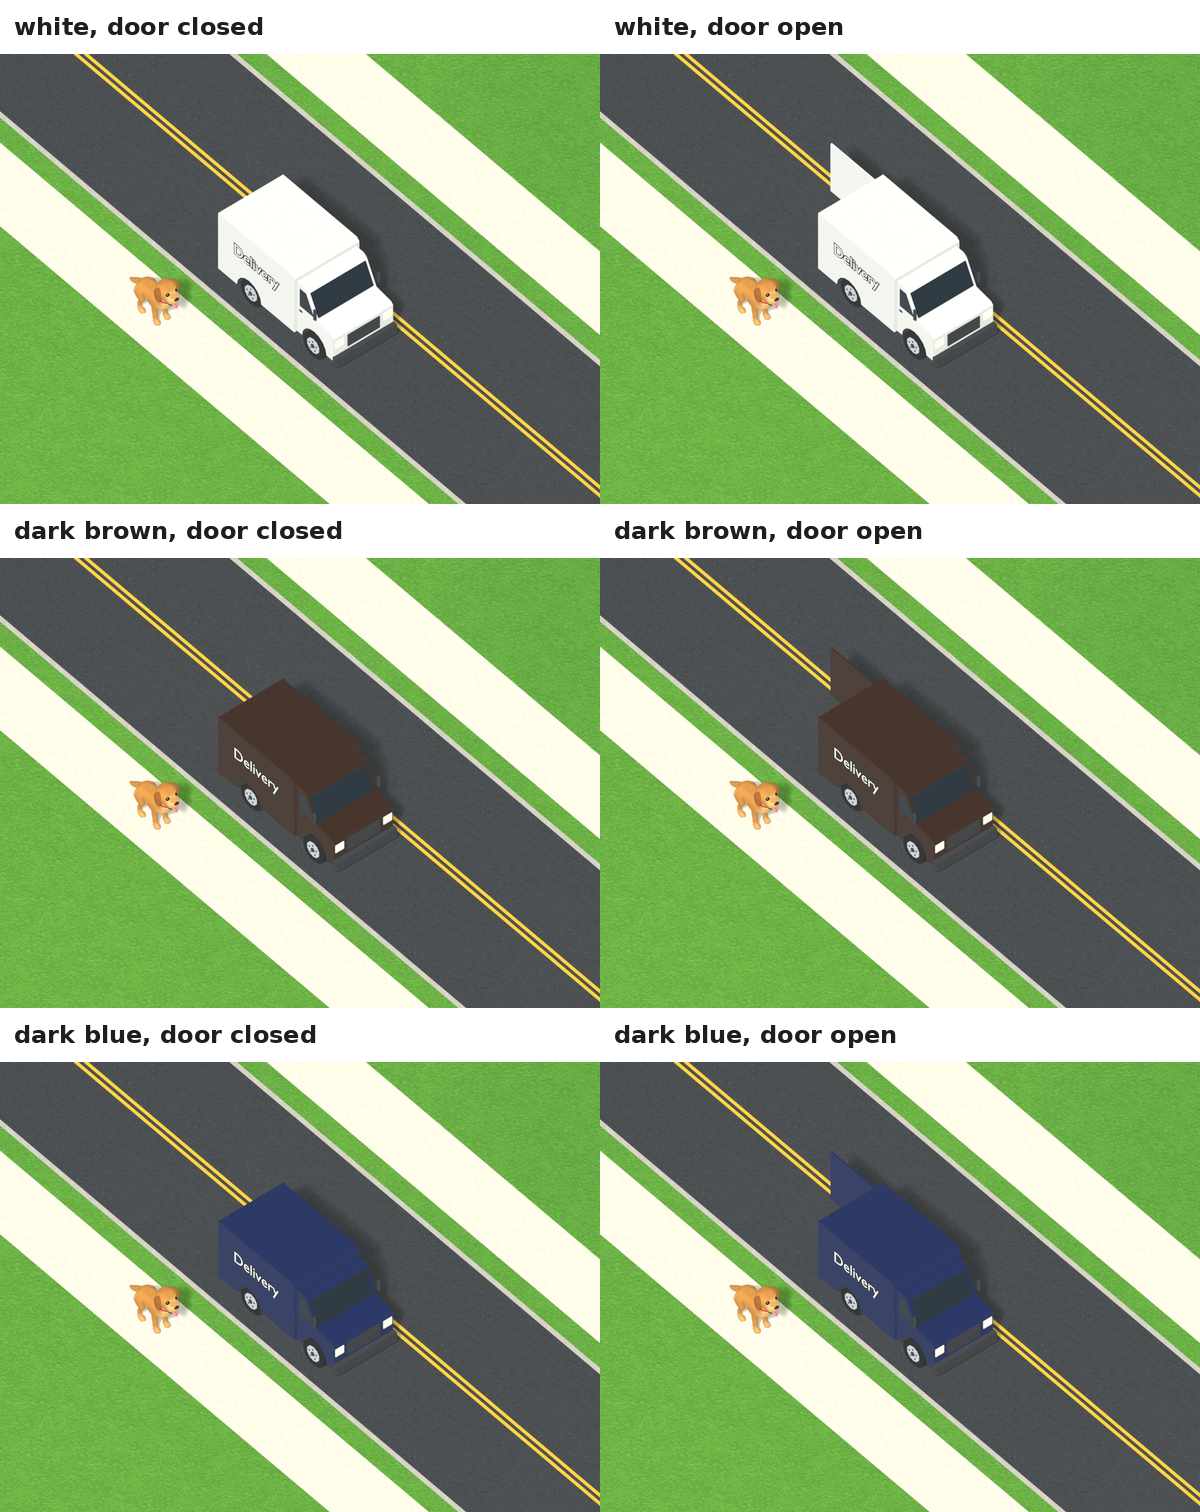
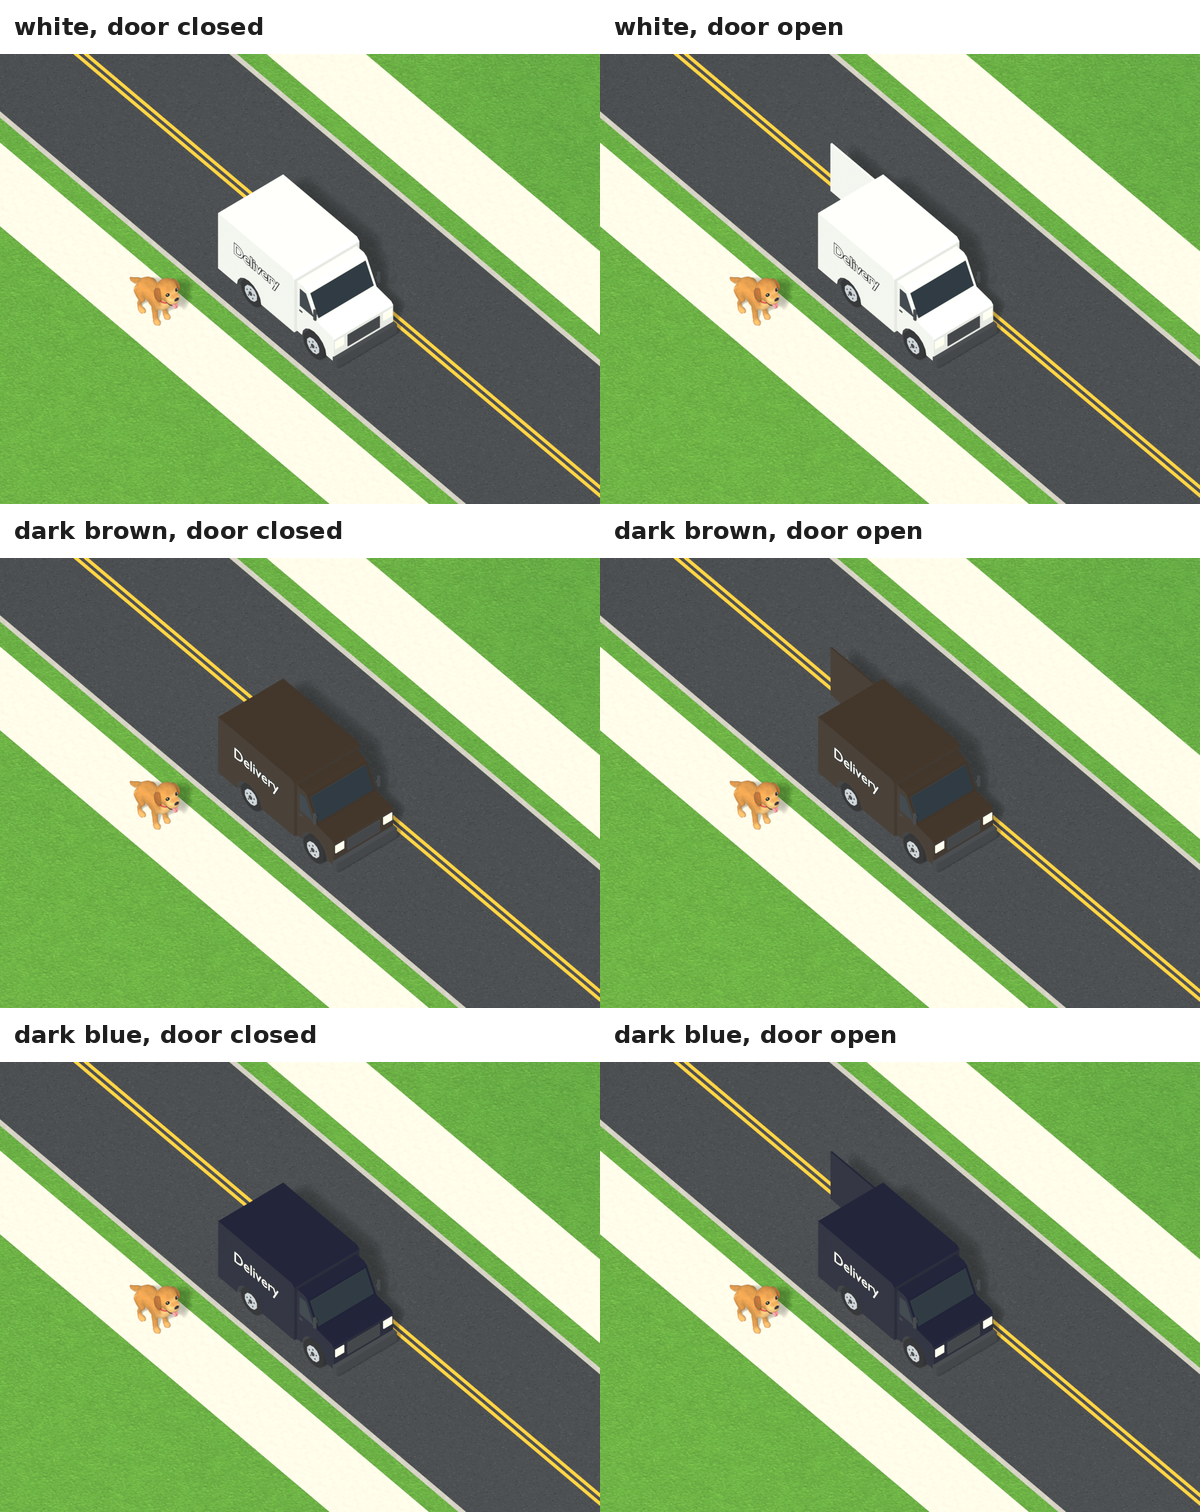
feat(art): use Derek's blue and brown for the delivery truck
Derek's picks: dark blue #0A0D28 and dark brown #312316 (white stays
#DADAD6). Review colours only, in the art scripts; none is in
Palette.CarColorHex. Re-rendered the game-camera views, the lettered
sides and the close-ups. The export is unchanged.

Refs #924

Changed region(s): [[0.6783, 0.746, 0.8325, 0.9015], [0.1542, 0.7771, 0.3392, 0.9015]]

diff --git a/art-source/blender/vehicles/delivery-truck/truck_dims.py b/art-source/blender/vehicles/delivery-truck/truck_dims.py
@@ -174,9 +174,9 @@ def core_car_colors():
 # The seven car colours, for the review renders and the viewer.
 CAR_COLORS = core_car_colors()
 
-# Derek's review colours (#924), darkened after his second look. None of the three is in
+# Derek's review colours (#924), his picks after his second and third looks. None of the three is in
 # Core's Palette.CarColorHex (white and dark blue are darker than the palette's #EDEDED and
 # #23366B; dark brown is not there at all): adopting them needs a Core palette change, in
 # #930 or a new issue.
-DARK_BROWN = ("dark brown", "#36231A")
-REVIEW_COLORS = [("white", "#DADAD6"), DARK_BROWN, ("dark blue", "#1A2752")]
+DARK_BROWN = ("dark brown", "#312316")
+REVIEW_COLORS = [("white", "#DADAD6"), DARK_BROWN, ("dark blue", "#0A0D28")]

diff --git a/art-source/blender/vehicles/delivery-truck/README.md b/art-source/blender/vehicles/delivery-truck/README.md
@@ -143,8 +143,8 @@ processes and compares with the committed `.glb` (skipped without `bpy`).
 
 ## Review renders (review/)
 
-Derek's review colours (`truck_dims.REVIEW_COLORS`, darkened after his second look) are
-**white** `#DADAD6`, **dark brown** `#36231A` and **dark blue** `#1A2752`. None of them is
+Derek's review colours (`truck_dims.REVIEW_COLORS`, his picks after his second and third looks) are
+**white** `#DADAD6`, **dark brown** `#312316` and **dark blue** `#0A0D28`. None of them is
 in `Palette.CarColorHex`.
 
 - `gamecam-<white|dark-brown|dark-blue>-<closed|open>.png`, and all six on
@@ -189,6 +189,6 @@ run; if a view is missing, render it on its own with `--views`.
    The other option was dark lettering on a light panel.
 5. **The truck's colours are not game colours yet.** The trucks pick from
    `Palette.CarColorHex` (white #EDEDED, black, silver, gray, red, dark blue #23366B, dark
-   green). All three chosen colours (white `#DADAD6`, dark brown `#36231A`, dark blue
-   `#1A2752`) are only defined in these scripts for the review. Using them in the game
+   green). All three chosen colours (white `#DADAD6`, dark brown `#312316`, dark blue
+   `#0A0D28`) are only defined in these scripts for the review. Using them in the game
    needs a Core palette entry for each, in #930 or a new issue.
